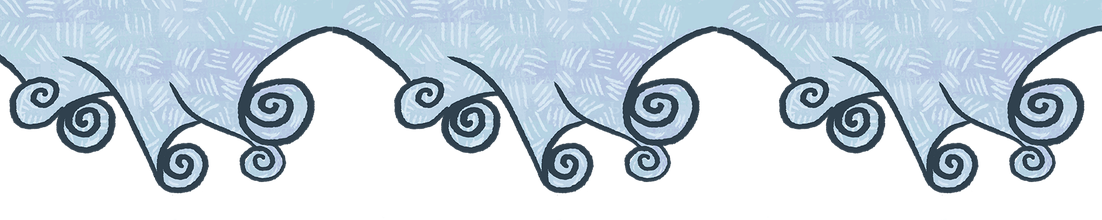
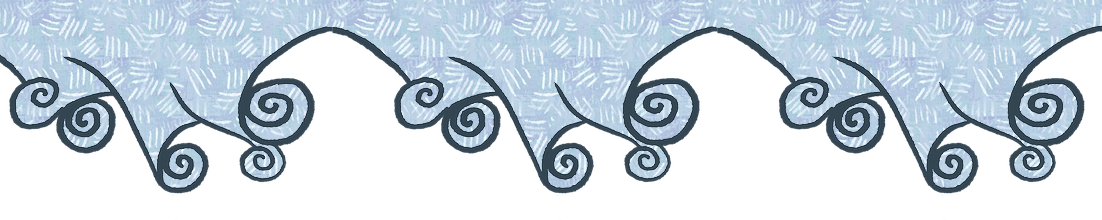
messages

diff --git a/src/lib/data.ts b/src/lib/data.ts
@@ -229,13 +229,13 @@ export const checkpoints: Checkpoint[] = [
 
 /** 1 verified hour = $5. Values include shipping. Models may vary by country. */
 export const drops: Drop[] = [
-	{ hours: 5, value: 25, name: 'Custom Expedition cap', extra: 'Jukebox Expedition stickers', art: 'cap' },
-	{ hours: 10, value: 50, name: 'Nice wireless mouse', art: 'mouse' },
-	{ hours: 15, value: 75, name: '65W GaN charger', extra: 'USB-C cable', art: 'charger' },
-	{ hours: 20, value: 100, name: 'Wireless earbuds', art: 'earbuds' },
-	{ hours: 25, value: 125, name: 'Really nice microphone', art: 'mic' },
-	{ hours: 30, value: 150, name: 'Portable Bluetooth speaker', art: 'speaker' },
-	{ hours: 35, value: 175, name: 'Polaroid-style instant camera', art: 'camera' },
+	{ hours: 5, value: 25, name: 'Custom Expedition cap', extra: 'Jukebox Expedition stickers', art: 'cap', image: '/drop-cap.webp' },
+	{ hours: 10, value: 50, name: 'Nice wireless mouse', art: 'mouse', image: '/drop-mouse.webp' },
+	{ hours: 15, value: 75, name: '65W GaN charger', extra: 'USB-C cable', art: 'charger', image: '/drop-charger.webp' },
+	{ hours: 20, value: 100, name: 'Wireless earbuds', art: 'earbuds', image: '/drop-earbuds.webp' },
+	{ hours: 25, value: 125, name: 'Really nice microphone', art: 'mic', image: '/drop-mic.webp' },
+	{ hours: 30, value: 150, name: 'Portable Bluetooth speaker', art: 'speaker', image: '/drop-speaker.webp' },
+	{ hours: 35, value: 175, name: 'Polaroid-style instant camera', art: 'camera', image: '/drop-camera.webp' },
 	{
 		hours: 40,
 		value: 200,

diff --git a/src/lib/components/RewardTrail.svelte b/src/lib/components/RewardTrail.svelte
@@ -171,6 +171,7 @@
 
 				<div class="stop stop-{side} stop-{status}" style:top="{p.y}px" style:--bx="{p.x}px">
 					<div class="info">
+						{#if d.image}<img class="drop-img" src={d.image} alt={d.name} loading="lazy" />{/if}
 						<p class="hrs">{d.hours}h</p>
 						<p class="name">{d.name}</p>
 						{#if d.extra}<p class="extra">+ {d.extra}</p>{/if}
@@ -434,6 +435,18 @@
 		text-align: right;
 	}
 
+	.drop-img {
+		display: block;
+		height: clamp(80px, 11vw, 120px);
+		width: auto;
+		max-width: 100%;
+		object-fit: contain;
+		margin: 0 0 0.6rem auto;
+		filter: drop-shadow(0 6px 10px rgba(23, 37, 63, 0.18));
+	}
+	.stop-short .drop-img {
+		opacity: 0.55;
+	}
 	.hrs {
 		font-size: clamp(3rem, 6vw, 4.6rem);
 		font-weight: 800;

diff --git a/src/routes/dashboard/+page.svelte b/src/routes/dashboard/+page.svelte
@@ -116,6 +116,7 @@
 			<ol class="unlocks">
 				{#each data.unlocks as u (u.hours)}
 					<li class="unlock unlock-{u.state}">
+						{#if u.image}<img class="u-img" src={u.image} alt="" loading="lazy" />{/if}
 						<span class="u-tier">{u.hours}h</span>
 						<span class="u-name">{u.name}</span>
 						<span class="u-state">
@@ -382,6 +383,15 @@
 		background: var(--white);
 		border: 2px solid var(--rule);
 		min-height: 128px;
+	}
+	.u-img {
+		height: 56px;
+		width: 100%;
+		object-fit: contain;
+		margin-bottom: 0.2rem;
+	}
+	.unlock-locked .u-img {
+		opacity: 0.6;
 	}
 	.u-tier {
 		font-family: var(--font-mono);

diff --git a/src/routes/claim/+page.svelte b/src/routes/claim/+page.svelte
@@ -53,6 +53,7 @@
 		<div class="drops">
 			{#each data.catalogue as d (d.key)}
 				<div class="drop" class:locked={!d.affordable && !d.claimed} class:done={d.claimed}>
+					{#if d.image}<img class="drop-img" src={d.image} alt={d.name} loading="lazy" />{/if}
 					<div class="drop-head">
 						<span class="drop-hours">{d.hours}h</span>
 						<span class="drop-value">${d.value}</span>
@@ -128,6 +129,12 @@
 	}
 	.drop.locked {
 		opacity: 0.55;
+	}
+	.drop-img {
+		height: 110px;
+		width: 100%;
+		object-fit: contain;
+		margin-bottom: 0.4rem;
 	}
 	.drop.done {
 		background: var(--paper-soft);

diff --git a/src/lib/types.ts b/src/lib/types.ts
@@ -12,6 +12,8 @@ export interface Drop {
 	art: 'cap' | 'mouse' | 'charger' | 'earbuds' | 'mic' | 'speaker' | 'camera' | 'keyboard';
 	/** the 40 hour drop, which ends the trail */
 	finisher?: boolean;
+	/** product photo on a transparent background, under /static */
+	image?: string;
 }
 
 export interface Project {

diff --git a/src/routes/claim/+page.server.ts b/src/routes/claim/+page.server.ts
@@ -28,6 +28,7 @@ export const load: PageServerLoad = async ({ locals, url }) => {
 			key: String(d.hours),
 			name: d.name,
 			extra: d.extra ?? null,
+			image: d.image ?? null,
 			hours: d.hours,
 			value: d.value,
 			affordable: Number(balance.hours_available) >= d.hours,

diff --git a/src/routes/dashboard/+page.server.ts b/src/routes/dashboard/+page.server.ts
@@ -99,6 +99,7 @@ export const load: PageServerLoad = async ({ locals, url }) => {
 		name: d.name,
 		extra: d.extra ?? null,
 		value: d.value,
+		image: d.image ?? null,
 		state: claimed.has(String(d.hours))
 			? ('claimed' as const)
 			: available >= d.hours
